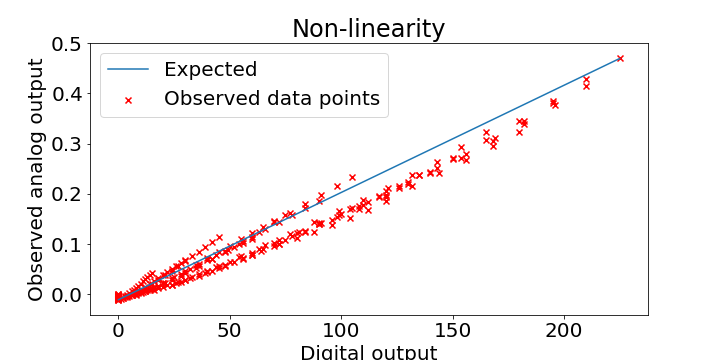
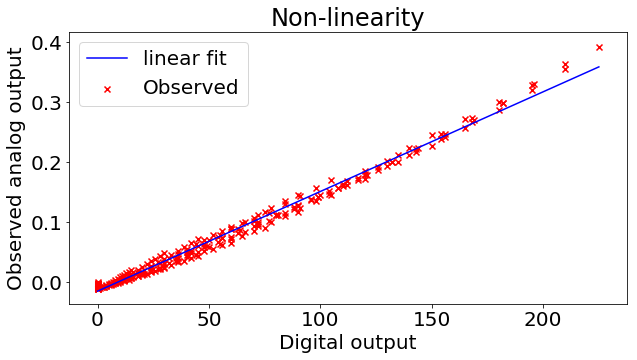
Add existing files

diff --git a/System/system_comaparison.py b/System/system_comaparison.py
@@ -7,21 +7,32 @@ Created on Thu Aug  1 03:02:30 2019
 """
 
 import numpy as np
-
-a=np.array([[4043.71875	,153660,	3936.84375,	29400,	689.0625	, 43417.92],
-[8416.071429, 	324480,	8034.375,	60000	,1406.25	,88608],
-[5395.714286,	312000	,1606.875,	196320,	281.25,	17721.6],
-[1133.1,	65520,	337.44375,	41227.2,	59.1796875,	3721.536],
-[94.425,	5460,	28.1203125,	3435.6,	4.98046875,	310.128]])
-a=a.T
-
-
-
-import numpy as np
 import matplotlib.pyplot as plt
 
+def autolabel(rects):
+    """
+    Attach a text label above each bar displaying its height
+    """
+    for rect in rects:
+        height = rect.get_height()
+        ax.text(rect.get_x() + rect.get_width()/2., 1.05*height,
+                '%d' % int(height),
+                ha='center', va='bottom')
+        
+a=np.array([[2763,		125436,	3936.84375,	29409.44843,	689.0625,	40890.696],
+[6685.714286,	266880,	8034.375,	60019.2825,	1406.25,	83450.4],
+[25097.14286,	484800,	2250,		219845.4,	281.25,		16690.08],
+[5270.4, 	    101808,	472.5,		46167.534,	59.1796875,	3504.9168],
+[439.2,		    8484,	39.375,		3847.2945,	4.98046875,	292.0764],
+[40255.45714,	987408,	14733.09375,	359288.9594,	2440.722656,	144828.1692]])
+
+a=a.T/1000
+
+
+
+
 # data to plot
-n_groups = 5
+n_groups = 6
 
 tvn=a[0]/a[0]
 tdima=a[2]/a[0]
@@ -30,6 +41,7 @@ tinmemory=a[4]/a[0]
 # create plot
 matplotlib.rcParams.update({'font.size': 20})
 plt.figure(figsize=(10,5))
+
 index = np.arange(n_groups)
 bar_width = 0.3
 opacity = 1.0
@@ -51,17 +63,19 @@ label='This Work')
 
 plt.xlabel('Layers')
 plt.ylabel('Normalised Delay')
-plt.title('Delay Comparisons Normalised')
-plt.xticks(index + bar_width, ('C1', 'C2', 'FC1', 'FC2','FC3'))
-plt.legend()
-plt.savefig('/home/min/a/skodge/Project/GitHub/6T-SRAM-Multiplication/System/Delay_norm.png')
+plt.title('Normalised Delay Comparisons',y=1.18)
+plt.xticks(index + bar_width, ('C1', 'C2', 'FC1', 'FC2','FC3','Total'))
+plt.legend(loc='upper center', bbox_to_anchor=(0.5, 1.18),
+          ncol=3, fancybox=True, shadow=True)
+plt.savefig('/home/min/a/skodge/Project/GitHub/6T-SRAM-Multiplication/System/Delay_norm.png',bbox_inches='tight')
 plt.show()
-
+autolabel(rects1)
 
 
 tvn=a[0]
 tdima=a[2]
 tinmemory=a[4]
+
 # create plot
 matplotlib.rcParams.update({'font.size': 20})
 plt.figure(figsize=(10,5))
@@ -81,11 +95,12 @@ alpha=opacity,
 color='brown',
 label='This Work')
 plt.xlabel('Layers')
-plt.ylabel('Delay per decision')
-plt.title('Delay Comparisons')
-plt.xticks(index + bar_width, ('C1', 'C2', 'FC1', 'FC2','FC3'))
-plt.legend()
-plt.savefig('/home/min/a/skodge/Project/GitHub/6T-SRAM-Multiplication/System/Delay.png')
+plt.ylabel('Delay( us ) / decision')
+plt.title('Delay Comparisons',y=1.18)
+plt.xticks(index + bar_width, ('C1', 'C2', 'FC1', 'FC2','FC3','Total'))
+plt.legend(loc='upper center', bbox_to_anchor=(0.5, 1.18),
+          ncol=3, fancybox=True, shadow=True)
+plt.savefig('/home/min/a/skodge/Project/GitHub/6T-SRAM-Multiplication/System/Delay.png',bbox_inches='tight')
 plt.show()
 
 
@@ -118,10 +133,11 @@ label='This Work')
 
 plt.xlabel('Layers')
 plt.ylabel('Normalised Energy ')
-plt.title('Energy Comparisons Normalised')
-plt.xticks(index + bar_width, ('C1', 'C2', 'FC1', 'FC2','FC3'))
-plt.legend()
-plt.savefig('/home/min/a/skodge/Project/GitHub/6T-SRAM-Multiplication/System/Energy_norm.png')
+plt.title('Normalised Energy Comparisons',y=1.18)
+plt.xticks(index + bar_width, ('C1', 'C2', 'FC1', 'FC2','FC3','Total'))
+plt.legend(loc='upper center', bbox_to_anchor=(0.5, 1.18),
+          ncol=3, fancybox=True, shadow=True)
+plt.savefig('/home/min/a/skodge/Project/GitHub/6T-SRAM-Multiplication/System/Energy_norm.png',bbox_inches='tight')
 plt.show()
 
 evn=a[1]
@@ -149,11 +165,12 @@ color='brown',
 label='This Work')
 
 plt.xlabel('Layers')
-plt.ylabel('Energy per decision')
-plt.title('Energy Comparisons')
-plt.xticks(index + bar_width, ('C1', 'C2', 'FC1', 'FC2','FC3'))
-plt.legend()
-plt.savefig('/home/min/a/skodge/Project/GitHub/6T-SRAM-Multiplication/System/Energy.png')
+plt.ylabel('Energy( nJ )/decision')
+plt.title('Energy Comparisons',y=1.18)
+plt.xticks(index + bar_width, ('C1', 'C2', 'FC1', 'FC2','FC3','Total'))
+plt.legend(loc='upper center', bbox_to_anchor=(0.5, 1.18),
+          ncol=3, fancybox=True, shadow=True)
+plt.savefig('/home/min/a/skodge/Project/GitHub/6T-SRAM-Multiplication/System/Energy.png',bbox_inches='tight')
 plt.show()
 
 
@@ -182,17 +199,18 @@ color='brown',
 label='This Work')
 
 plt.xlabel('Layers')
-plt.ylabel('Normalised Energy*delay per decision')
-plt.title('Energy*delay Comparisons Normalised')
-plt.xticks(index + bar_width, ('C1', 'C2', 'FC1', 'FC2','FC3'))
-plt.legend()
-plt.savefig('/home/min/a/skodge/Project/GitHub/6T-SRAM-Multiplication/System/Energy_delay_norm.png')
+plt.ylabel('Normalised EDP/decision')
+plt.title('Normalised EDP Comparisons',y=1.18)
+plt.xticks(index + bar_width, ('C1', 'C2', 'FC1', 'FC2','FC3','Total'))
+plt.legend(loc='upper center', bbox_to_anchor=(0.5, 1.18),
+          ncol=3, fancybox=True, shadow=True)
+plt.savefig('/home/min/a/skodge/Project/GitHub/6T-SRAM-Multiplication/System/Energy_delay_norm.png',bbox_inches='tight')
 plt.show()
 
 
-edvn=a[1]*a[0]
-eddima=a[3]*a[2]
-edinmemory=a[5]*a[4]
+edvn=a[1]*a[0]/1000
+eddima=a[3]*a[2]/1000
+edinmemory=a[5]*a[4]/1000
 matplotlib.rcParams.update({'font.size': 20})
 plt.figure(figsize=(10,5))
 index = np.arange(n_groups)
@@ -215,9 +233,10 @@ color='brown',
 label='This Work')
 
 plt.xlabel('Layers')
-plt.ylabel('Energy*delay per decision')
-plt.title('Energy*delay Comparisons')
-plt.xticks(index + bar_width, ('C1', 'C2', 'FC1', 'FC2','FC3'))
-plt.legend()
-plt.savefig('/home/min/a/skodge/Project/GitHub/6T-SRAM-Multiplication/System/Energy_delay.png')
+plt.ylabel('EDP( p Js )/decision')
+plt.title('EDP Comparisons',y=1.18)
+plt.xticks(index + bar_width, ('C1', 'C2', 'FC1', 'FC2','FC3','Total'))
+plt.legend(loc='upper center', bbox_to_anchor=(0.5, 1.18),
+          ncol=3, fancybox=True, shadow=True)
+plt.savefig('/home/min/a/skodge/Project/GitHub/6T-SRAM-Multiplication/System/Energy_delay.png',bbox_inches='tight')
 plt.show()

diff --git a/Circuit Simulation/Circuit_Results.py b/Circuit Simulation/Circuit_Results.py
@@ -12,7 +12,6 @@ import matplotlib.pyplot as plt
 from scipy import stats
 
 
-import pandas as pd 
 a =np.loadtxt('/home/nano01/a/agrawa64/cadence_folder/sangamesh/Sangamesh_SRAM/6T_MAC/spectre/trans_mult/nominal.txt')
 mult=np.zeros((16,16))
 
@@ -55,7 +54,7 @@ plt.plot(W,line,c='orange')
 plt.scatter(W,y_bl[3,:].T,marker="o",c='orange')
 plt.legend(('W=0','W=5','W=10','W=15'))
 plt.title("Output with Vin sweep")
-plt.savefig('/home/min/a/skodge/Project/GitHub/6T-SRAM-Multiplication/Circuit Simulation/OutVsVin.png')
+plt.savefig('/home/min/a/skodge/Project/GitHub/6T-SRAM-Multiplication/Circuit Simulation/OutVsVin.png',bbox_inches='tight')
 
 matplotlib.rcParams.update({'font.size': 20})
 plt.figure(figsize=(10,5))
@@ -80,28 +79,87 @@ plt.plot(W,line,c='orange')
 plt.scatter(W,y_bl[3,:].T,marker="o",c='orange')
 plt.legend(('Vin=0','Vin=5','Vin=10','Vin=15'))
 plt.title("Output with W sweep")
-plt.savefig('/home/min/a/skodge/Project/GitHub/6T-SRAM-Multiplication/Circuit Simulation/OutVsW.png')
+plt.savefig('/home/min/a/skodge/Project/GitHub/6T-SRAM-Multiplication/Circuit Simulation/OutVsW.png',bbox_inches='tight')
 
 matplotlib.rcParams.update({'font.size': 20})
 plt.figure(figsize=(10,5))
-x = np.zeros((256))
-y = np.zeros((256))
+
+x1 = np.zeros((1*15))
+y1 = np.zeros((1*15))
+k=0
+for i in range(0,2,1):
+    for j in range(16):
+        if(i*j!=0  ):
+            x1[k] = i*j 
+            y1[k]=mult[i][j]
+            k=k+1
+
+x2 = np.zeros((2*15))
+y2 = np.zeros((2*15))
+k=0
+for i in range(2,4,1):
+    for j in range(16):
+        if(i*j!=0  ):
+            x2[k] = i*j 
+            y2[k]=mult[i][j]
+            k=k+1
+        
+x3 = np.zeros((4*15))
+y3 = np.zeros((4*15))
+k=0
+for i in range(4,8,1):
+    for j in range(16):
+        if(i*j!=0  ):
+            x3[k] = i*j 
+            y3[k]=mult[i][j]
+            k=k+1
+
+x4 = np.zeros((8*15))
+y4 = np.zeros((8*15))
+k=0
+for i in range(8,16,1):
+    for j in range(16):
+        if(i*j!=0  ):
+            x4[k] = i*j 
+            y4[k]=mult[i][j]
+            k=k+1
+            
+x = np.zeros((16*16))
+y = np.zeros((16*16))
 k=0
 for i in range(16):
     for j in range(16):
         x[k] = i*j 
         y[k]=mult[i][j]
         k=k+1
-
+        
+                        
 plt.ylabel('Observed analog output')
 plt.xlabel('Digital output')
 plt.title("Non-linearity")
-#slope, intercept, r_value, p_value, std_err = stats.linregress(x,y)
-#line = slope*x+intercept
-plt.plot([0,225],[y.min(),y.max()],label = "Expected")
-#plt.plot(x,line,label = "linear fit")
-plt.scatter(x,y, marker="x",color="red",label="Observed data points")
+
+slope, intercept, r_value, p_value, std_err = stats.linregress(x1,y1)
+line1 = slope*x1+intercept
+slope, intercept, r_value, p_value, std_err = stats.linregress(x2,y2)
+line2 = slope*x2+intercept
+slope, intercept, r_value, p_value, std_err = stats.linregress(x3,y3)
+line3 = slope*x3+intercept
+slope, intercept, r_value, p_value, std_err = stats.linregress(x4,y4)
+line4 = slope*x4+intercept
+
+slope, intercept, r_value, p_value, std_err = stats.linregress(x,y)
+line = slope*x+intercept
+
+#plt.plot([0,1*15],[y.min(),y.max()],label = "Expected")
+'''
+plt.plot(x1,line1,color="blue", label = "line (W=0-1)")
+plt.plot(x2,line2,color="green", label = "line (W=2-3)")
+plt.plot(x3,line3,color="red", label = "line (W=4-7)")
+plt.plot(x4,line4,color="orange", label = "line (W=8-16)")
+'''
+plt.plot(x,line,color="blue", label = "linear fit")
+plt.scatter(x,y, marker="x",color="red",label="Observed")
 plt.legend()
-plt.savefig('/home/min/a/skodge/Project/GitHub/6T-SRAM-Multiplication/Circuit Simulation/Non-linearity.png')
+plt.savefig('/home/min/a/skodge/Project/GitHub/6T-SRAM-Multiplication/Circuit Simulation/Non-linearity.png',bbox_inches='tight')
 
 

diff --git a/Circuit Simulation/Variation_Result.py b/Circuit Simulation/Variation_Result.py
@@ -68,7 +68,7 @@ plt.xlabel('analog product')
 plt.ylabel('Probability density')
 plt.title('Variation Results')
 plt.legend()
-plt.savefig('/home/min/a/skodge/Project/GitHub/6T-SRAM-Multiplication/Circuit Simulation/variation_analog_mult_pdf.png')
+plt.savefig('/home/min/a/skodge/Project/GitHub/6T-SRAM-Multiplication/Circuit Simulation/variation_analog_mult_pdf.png',bbox_inches='tight')
 plt.show()
 
 
@@ -86,7 +86,7 @@ plt.scatter (m,s,c='red',marker='x')
 plt.xlabel('mean')
 plt.ylabel('Sigma')
 plt.title('Variation Results')
-plt.savefig('/home/min/a/skodge/Project/GitHub/6T-SRAM-Multiplication/Circuit Simulation/variation_analog_mult_mean_sigma.png')
+plt.savefig('/home/min/a/skodge/Project/GitHub/6T-SRAM-Multiplication/Circuit Simulation/variation_analog_mult_mean_sigma.png',bbox_inches='tight')
 plt.show()
 
 
@@ -102,9 +102,10 @@ plt.hist(c, bins=[8.5,9.5,10.5,11.5,12.5,13.5],edgecolor='black', linewidth=1.2,
 plt.hist(d, bins=[12.5,13.5,14.5,15.5],edgecolor='black', linewidth=1.2,color='lightgreen',label ="Nominal=15")
 plt.xlabel("MAC Output")
 plt.ylabel("# of Occurrences")
-plt.title("1000 runs of MC")
-plt.legend()
-plt.savefig('/home/min/a/skodge/Project/GitHub/6T-SRAM-Multiplication/Circuit Simulation/MC.png')
+plt.title("1000 runs of MC",y=1.18)
+plt.legend(loc='upper center', bbox_to_anchor=(0.5, 1.18),
+          ncol=4, fancybox=True, shadow=True)
+plt.savefig('/home/min/a/skodge/Project/GitHub/6T-SRAM-Multiplication/Circuit Simulation/MC.png',bbox_inches='tight')
 plt.show()
 
 

diff --git a/Application levels/MNIST/train.py b/Application levels/MNIST/train.py
@@ -80,7 +80,8 @@ def test(epoch, best_loss, best_epoch, best_correct, do_quantise,do_add_error,mo
         if cuda:
             data, target = data.cuda(), target.cuda()
         data, target = Variable(data), Variable(target)
-        output = model.inference(data, do_quantise=do_quantise)
+        #output = model.inference(data, do_quantise=do_quantise)
+        output = model(data)
         # sum up batch loss
         test_loss += criterion(output, target).data.item()
         # get the index of the max log-probability
